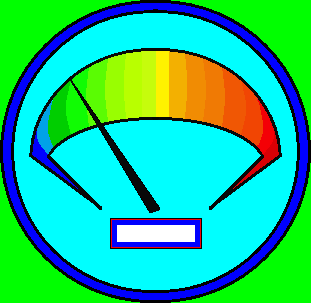
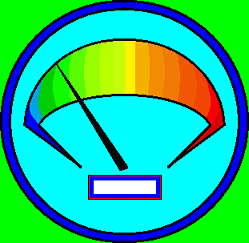
first part of the HUD

diff --git a/loops.py b/loops.py
@@ -1,86 +1,69 @@
-import classes_entidades
+import classes_entidades as ce
 import pygame
 import funcoes
 
 
-def Mission_Parts (screen, background):
-# Entidades
-    car = classes_entidades.carro()
-    estrada = classes_entidades.estrada()
-    lista_obstaculos = classes_entidades.obstaculos()
-    lista_parts = classes_entidades.parts()
-# loop stuff
-    clock = pygame.time.Clock()
-    keepGoing2 = True
-    time_passed = 0
-    escolha = 0
-# Loop
-    while keepGoing2:
-        time_passed += clock.tick(30) / (33 * 30)
-        # terminate execution
-        for event in pygame.event.get():
-            if event.type == pygame.QUIT:
-                return False
-# player effects
-        if not car.keepmoving and car.y in car.valores_y:
-            car.visao(screen)
-            escolha = funcoes.make_a_choice(car.valores_vistos)
-        if escolha == 1:
-            car.movimento("DWN")
-            car.direction = "DWN"
-        elif escolha == -1:
-            car.movimento("UP")
-            car.direction = "UP"
-        car.contin_mov()
-# colisao
-        keepGoing2 = car.colisao_obstaculo(lista_obstaculos.lista)
-        lista_parts.lista = car.colisao_parts(lista_parts.lista)
-# parts effects
-        lista_parts.remover_parts(lista_obstaculos.lista)
-        lista_parts.criar_parts()
-# obstacles effects
-        lista_obstaculos.remover_obstaculos()
-        lista_obstaculos.criar_obstaculos()
-# Refresh screen
-        funcoes.refresh_game(screen, background, [estrada, lista_parts, lista_obstaculos, car])
+class Mission_AI:
+    def __init__(self, screen):
+        # Entities
+        self.screen = screen
+        self.car = ce.carro()
+        self.estrada = ce.estrada()
+        self.obstacles_list = ce.obstaculos()
+        self.parts_list = ce.parts()
+        self.parts_collected = 0
+        self.energy = 100
+        self.resistence = 100
+        self.hud = ce.HUD(self.screen)
+        # loop stuff
+        self.clock = pygame.time.Clock()
+        self.run = True
+        self.time_passed = 0
+        self.escolha = 0
 
-def Mission_AI (screen, background):
-# Entidades
-    car = classes_entidades.carro()
-    estrada = classes_entidades.estrada()
-    lista_obstaculos = classes_entidades.obstaculos()
-    lista_parts = classes_entidades.parts()
-# loop stuff
-    clock = pygame.time.Clock()
-    keepGoing2 = True
-    time_passed = 0
-    escolha = 0
-# Loop
-    while keepGoing2:
-        time_passed += clock.tick(30) / (33 * 30)
-        # terminate execution
-        for event in pygame.event.get():
-            if event.type == pygame.QUIT:
-                return False
-# player effects
-        if not car.keepmoving and car.y in car.valores_y:
-            car.visao(screen)
-            escolha = funcoes.make_a_choice(car.valores_vistos)
-        if escolha == 1:
-            car.movimento("DWN")
-            car.direction = "DWN"
-        elif escolha == -1:
-            car.movimento("UP")
-            car.direction = "UP"
-        car.contin_mov()
-# colisao
-        keepGoing2 = car.colisao_obstaculo(lista_obstaculos.lista)
-        lista_parts.lista = car.colisao_parts(lista_parts.lista)
-# parts effects
-        lista_parts.remover_parts(lista_obstaculos.lista)
-        lista_parts.criar_parts()
-# obstacles effects
-        lista_obstaculos.remover_obstaculos()
-        lista_obstaculos.criar_obstaculos()
-# Refresh screen
-        funcoes.refresh_game(screen, background, [estrada, lista_parts, lista_obstaculos, car])
+    def refresh_game(self):
+        entidades = [self.estrada, self.parts_list, self.obstacles_list, self.car]
+        self.screen.blit(pygame.image.load("images/HUD/HUD_background.png"), (0, 308))
+        for entidade in entidades:
+            entidade.draw(self.screen)
+        self.hud.draw(self.parts_collected)
+        pygame.display.update()
+
+    def car_moviment_y(self):
+        if not self.car.keepmoving and self.car.y in self.car.valores_y:
+            self.car.visao(self.screen)
+            self.escolha = funcoes.make_a_choice(self.car.valores_vistos)
+        if self.escolha == 1:
+            self.car.movimento("DWN")
+            self.car.direction = "DWN"
+        elif self.escolha == -1:
+            self.car.movimento("UP")
+            self.car.direction = "UP"
+        self.car.contin_mov()
+
+    def car_moviment_x(self):
+        pass
+
+    # Loop
+    def game_loop(self):
+        while self.run:
+            self.time_passed += self.clock.tick(30) / (33 * 30)
+            # terminate execution
+            for event in pygame.event.get():
+                if event.type == pygame.QUIT:
+                    return False
+    # parts effects
+            self.parts_list.remover_parts(self.obstacles_list.lista)
+            self.parts_list.criar_parts()
+    # car moviment
+            self.car_moviment_y()
+            self.car_moviment_x()
+    # colision
+            self.run = self.car.colisao_obstaculo(self.obstacles_list.lista)
+            self.parts_list.lista, value = self.car.colisao_parts(self.parts_list.lista)
+            self.parts_collected += value
+    # obstacles effects
+            self.obstacles_list.remover_obstaculos()
+            self.obstacles_list.criar_obstaculos()
+    # Refresh screen
+            self.refresh_game()

diff --git a/classes_entidades.py b/classes_entidades.py
@@ -1,6 +1,6 @@
 import pygame
 import random
-import funcoes
+import funcoes as f
 # import time
 
 distancia_obstaculos = 290
@@ -16,13 +16,13 @@ class carro:
         self.speed = 7
         self.x = 400
         self.y = 130
-        self.points = 0
-        self.pecas = 0
+        self.hitbox = pygame.mask.from_surface(self.imagem.convert_alpha())
         self.keepmoving = False
         self.destino = 1
         self.direction = None
-        self.hitbox = pygame.mask.from_surface(self.imagem.convert_alpha())
-        self.vision_coo = [[self.x+150, self.y-90], [self.x+150, self.y+27], [self.x+150, self.y+130], [self.x+70, self.y - 90], [self.x+70, self.y+130]]
+        self.rect = (self.x, self.y, self.imagem.get_size()[0], self.imagem.get_size()[1])
+        self.vision_coo = [[self.x+150, self.y-90], [self.x+150, self.y+27], [self.x+150, self.y+130],
+                           [self.x+70, self.y - 90], [self.x+70, self.y+130]]
         self.valores_vistos = []
         self.po = 0
 
@@ -35,23 +35,28 @@ class carro:
     def visao(self, screen):
         self.valores_vistos = []
         for i in self.vision_coo:
-            self.valores_vistos.append(funcoes.ver(screen, i))
+            self.valores_vistos.append(f.ver(screen, i))
         # time.sleep(0.5)
 
     def colisao_parts(self, l_parts):
+        value = 0
         new_parts = []
         for part in l_parts:
-            if self.hitbox.overlap(part.hitbox, (self.x-part.x, self.y-part.y)):
-                self.points += part.value
-                self.pecas += 1
+            if part.x+44 >= self.rect[0] and part.x <= self.rect[0]+self.rect[2]:
+                if part.y + 24 >= self.rect[1] and part.y <= self.rect[1] + self.rect[3]:
+                    value += part.value
+                    continue
+                else:
+                    new_parts.append(part)
             else:
                 new_parts.append(part)
-        return new_parts
+        return new_parts, value
 
     def draw(self, screen):
         screen.blit(self.imagem, (self.x, self.y))
-        for i in self.vision_coo:
-            pygame.draw.circle(screen, (255, 242, 0), i, 2, 1)
+        pygame.draw.rect(screen, (255, 255, 0), self.rect, 5)
+        """for i in self.vision_coo:
+            pygame.draw.circle(screen, (255, 242, 0), i, 2, 1)"""
 
     def movimento(self, evento):
         movimentos = {"UP": -self.speed, "DWN": self.speed}
@@ -77,6 +82,7 @@ class carro:
         elif self.valores_y[0] > self.y:
             self.y = self.valores_y[0]
         self.vision_coo = [[self.x + 150, self.y - 90], [self.x + 150, self.y + 27], [self.x + 150, self.y + 130], [self.x+70, self.y - 90], [self.x+70, self.y+130]]
+        self.rect = (self.x, self.y, self.imagem.get_size()[0], self.imagem.get_size()[1])
 
     def contin_mov(self):
         if self.keepmoving:
@@ -261,7 +267,8 @@ class parts:
 
 
 class HUD:
-    def __init__(self):
+    def __init__(self, screen, mode=False):
+        self.screen = screen
         self.speed_meter_image = pygame.image.load("images/HUD/meter/7.png")
         self.precision_meter_image = pygame.image.load("images/HUD/meter/7.png")
         self.speed = 0
@@ -269,8 +276,49 @@ class HUD:
         self.energy = 0
         self.resistence = 0
         self.parts = 0
+        self.modo = mode
+        if mode:
+            self.time = "infinit"
+        else:
+            self.time = 60
         self.written_text = []
-        self.text_to_write = self.get_text()
+        self.texts = []
+        self.line = 0
+        self.text_to_write = []
+        self.get_text()
+        self.set_up_HUD()
+
+    def set_up_HUD(self):
+        self.screen.blit(pygame.image.load("images/HUD/HUD_background.png"), (0, 308))
+        pygame.display.update()
+
+    def display_cleaning_backgrounds(self):
+        pygame.draw.rect(self.screen, (255, 255, 255), (114, 600, 62, 14))
+        pygame.draw.rect(self.screen, (255, 255, 255), (905, 600, 62, 14))
+        pygame.draw.rect(self.screen, (255, 255, 0), (514, 672, 53, 14))
+        pygame.display.update()
 
     def get_text(self):
-        pass
+        self.texts = f.get_text_names()
+        self.text_to_write = random.choice(self.texts)
+
+    def manage_buttons(self, keys, event):
+        if keys[pygame.K_KP_ENTER] or keys[pygame.K_RETURN]:
+            self.line += 1
+            self.written_text.append([])
+        elif event.key == pygame.K_BACKSPACE:
+            if len(self.written_text[self.line]) == 0:
+                self.written_text = self.written_text[:-1]
+            else:
+                self.written_text[self.line] = self.written_text[self.line][:-1]
+        elif len(self.written_text[self.line]) >= 25:
+            self.line += 1
+            self.written_text.append([])
+        self.written_text[self.line].append(event.unicode)
+
+    def draw(self, number_parts):
+        coordinates = [(20, 420), (811, 420)]
+        self.screen.blit(self.speed_meter_image, coordinates[0])
+        self.screen.blit(self.precision_meter_image, coordinates[1])
+        self.display_cleaning_backgrounds()
+        f.write_HUD_parts_value(self.screen, number_parts)

diff --git a/funcoes.py b/funcoes.py
@@ -9,7 +9,7 @@ import math
 
 diretorio_raiz = "saves/"
 cores_obst = [[196, 15, 23], [239, 10, 9], [191, 15, 23], [245, 71, 20], [252, 130, 18], [255, 17, 11], [255, 18, 11],
-              [255, 18, 12], [195, 195, 195], [163, 73, 164], [248, 12, 35]]
+              [255, 18, 12], [195, 195, 195], [163, 73, 164], [248, 12, 35], [255, 255, 255]]
 cores_part = [[255, 128, 0], [255, 242, 0], [34, 177, 76], [252, 130, 19], [237, 28, 36], [163, 73, 164], [255, 0, 255],
               [120, 0, 120], [0, 255, 255], [0, 0, 255]]
 cores_estrada = [[0, 0, 0], [108, 108, 108]]
@@ -21,6 +21,7 @@ bias = [0.2670813587084078, -0.6691533200275781, -0.5723370239650385, 0.25406116
 
 def wait(seconds):
     time.sleep(seconds)
+
 
 def ver(screen, coo):
     x, y = coo
@@ -81,19 +82,8 @@ def show_succes_message(screen, code) -> None:
     wait(3)
 
 
-def refresh_game(screen, background, entidades):
-    screen.blit(background, (0, 0))
-    for entidade in entidades:
-        entidade.draw(screen)
-    pygame.display.update()
-
-
 def criar_pasta(nome_utilizador):
     os.mkdir(diretorio_raiz+nome_utilizador)
-
-
-def eliminar_pasta(nome_utilizador):
-    pass
 
 
 def lista_utilizadores():
@@ -101,11 +91,10 @@ def lista_utilizadores():
     return [u[1] for u in utilizadores]
 
 
-def numero_textos():
+def get_text_names():
     texts = os.walk("texts")
     texts = [text for text in texts][0][1:][1]
-    print(texts)
-    #return [u[1] for u in utilizadores]
+    return texts
 
 
 def create_sized_text(max_size_image, max_size_letter, text, color, min_size_letter=30):
@@ -244,3 +233,12 @@ def get_users_images(codigo):
                 break
         users_images.append(image_text)
     return users_images
+
+
+# HUD functions
+def write_HUD_parts_value(screen, number_parts):
+    text = str(number_parts)
+    adjust = len(text)*7
+    text_image = create_sized_text(165, 25, text, (0, 0, 0), 7)
+    screen.blit(text_image, (540-adjust, 600))
+

diff --git a/classes_menu.py b/classes_menu.py
@@ -228,7 +228,6 @@ class Menu:
         if self.user is not None:
             coo = (20, 490)
             self.screen.blit(pygame.image.load(f"images/menu/interfaces/User/user_info/level{self.user.level}.png"), (0, 0))
-            #self.screen.blit(pygame.image.load(f"images/menu/interfaces/User/car_window.png"), coo)
             self.screen.blit(pygame.image.load(f"images/menu/interfaces/User/records.png"), (coo[0], coo[1]-210))
             self.screen.blit(pygame.image.load(f"images/menu/interfaces/User/parts.png"), (0, coo[1] - 310))
             self.screen.blit(pygame.image.load(f"images/cars/display/{self.user.level}.png"), (coo[0] - 18, coo[1]))

diff --git a/link_functions.py b/link_functions.py
@@ -99,18 +99,14 @@ def display_story(screen):
 
 
 def game_ai(screen):
-    background = pygame.Surface((1080, 700))
-    background.fill((0, 255, 0))
-    r = lp.Mission_AI(screen, background)
-    results_mission_ai(r)
+    game = lp.Mission_AI(screen)
+    game.game_loop()
     return "continue"
 
 
 def game_parts(screen):
-    background = pygame.Surface((1080, 700))
-    background.fill((0, 255, 0))
-    r = lp.Mission_Parts(screen, background)
-    results_mission_p(r)
+    game = lp.Mission_AI(screen)
+    game.game_loop()
     return "continue"
 
 

diff --git a/eventos.py b/eventos.py
@@ -1,9 +1,16 @@
 import classes_menu as cm
 import funcoes as f
+import loops as lp
 import link_functions as lf
+import classes_entidades as ce
 import pygame
 
 pygame.init()
 
 screen = pygame.display.set_mode((1080, 700))
-f.numero_textos()
+game = lp.Mission_AI(screen)
+game.game_loop()
+
+
+
+
